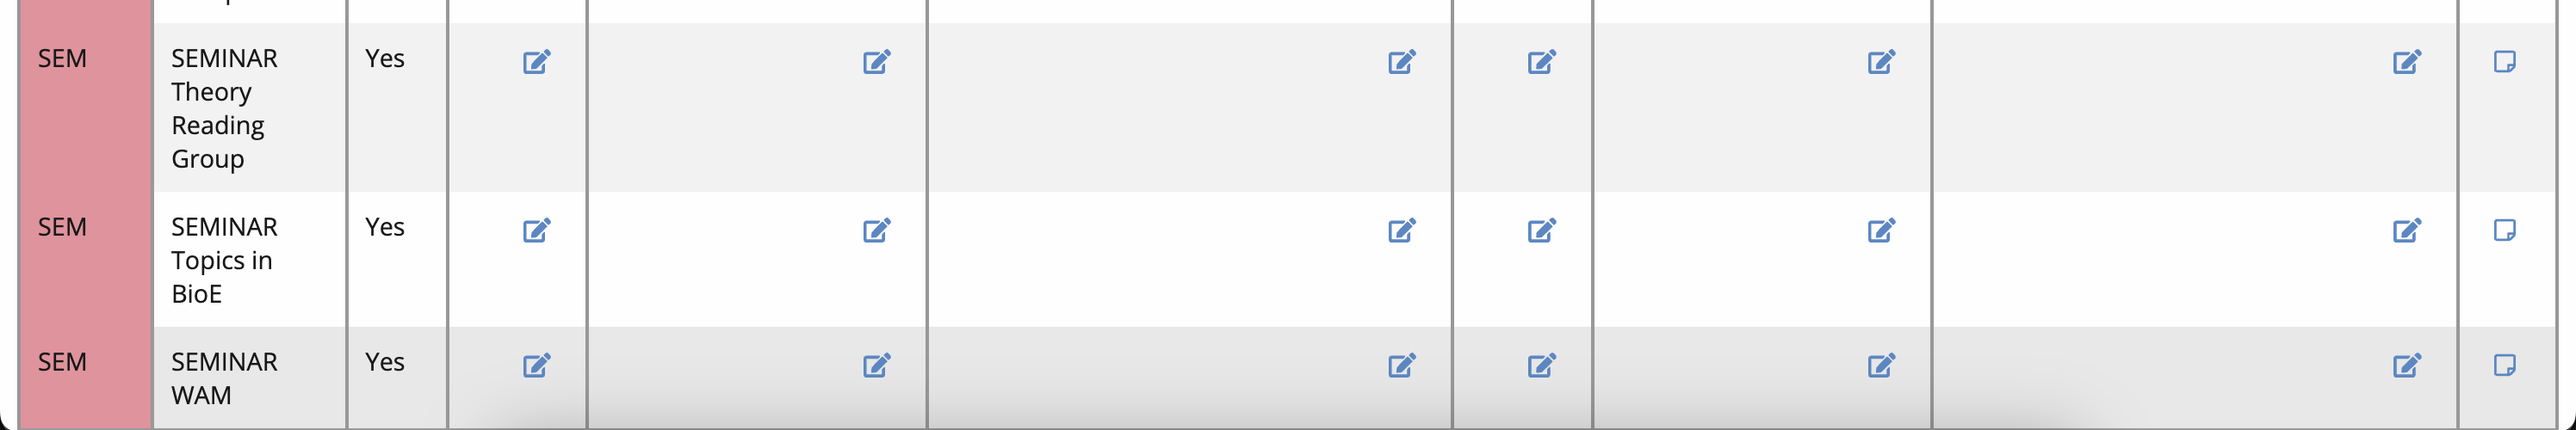
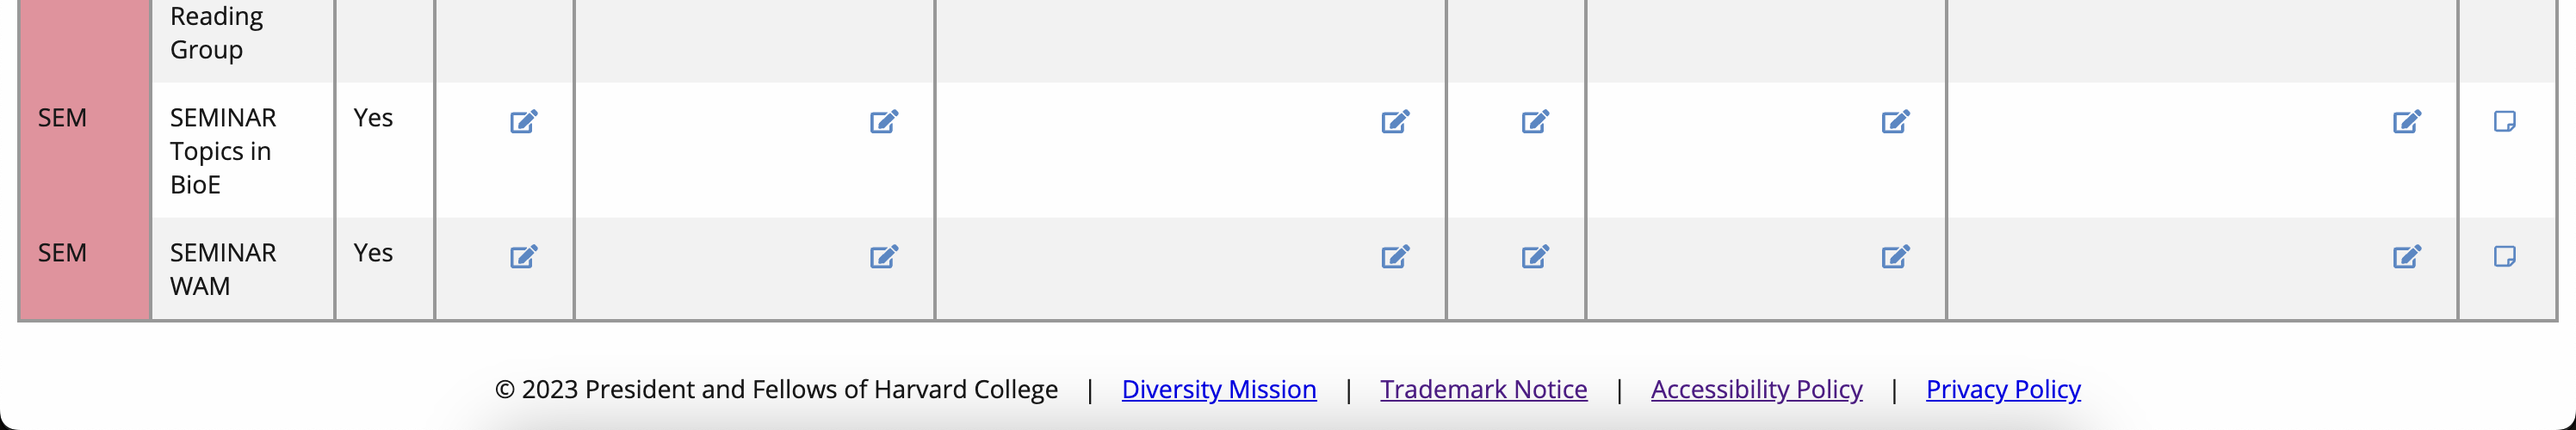
Kanban ticket 640
Footer style and content - proposed code (footer)

diff --git a/kanban-640/kanban-640.html b/kanban-640/kanban-640.html
@@ -1,6 +1,30 @@
 <!-- Bottom of table on https://planning-qa.seas.harvard.edu/courses/courses -->
-<!-- Current code without footer with policy links -->
+<!-- Current code with footer with policy links -->
 
+<style>
+ul {
+    display: flex;
+    list-style-type: none;
+    font-size: 0.9em;
+    font-weight: 400;
+    justify-content: center;
+    padding: 1em;
+}
+li:before {
+    content: "|"; /* Character prior to each list item, except for the first one */
+    padding: 0em 1em;
+}
+</style>
+
+                <footer> <!-- No "footer" in Mark One, aside from for the modal -->
+                    <ul>
+                        <lt>© 2023 President and Fellows of Harvard College</lt> <!-- Changing this list item to "lt", unless you prefer to assign a first-child property for removing ":before" or "content: "|";"  -->
+                        <li><a href="https://seas.harvard.edu/office-diversity-inclusion-and-belonging/about-us" rel="nofollow">Diversity Mission</a></li>
+                        <li><a href="https://trademark.harvard.edu/pages/trademark-notice" rel="nofollow">Trademark Notice</a></li>
+                        <li><a href="https://accessibility.huit.harvard.edu/digital-accessibility-policy" rel="nofollow">Accessibility Policy</a></li>
+                        <li><a href="https://seas.harvard.edu/privacy-policy" rel="nofollow">Privacy Policy</a></li>
+                    </ul>
+                </footer>
             </body>
         </table>
     </div>
